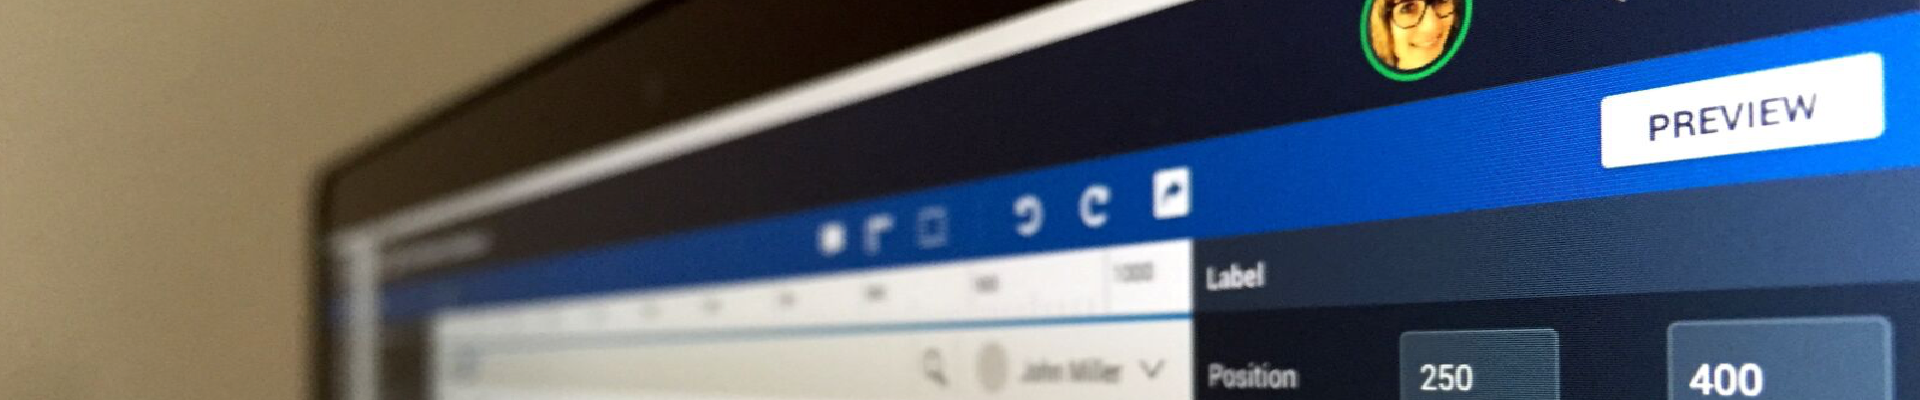
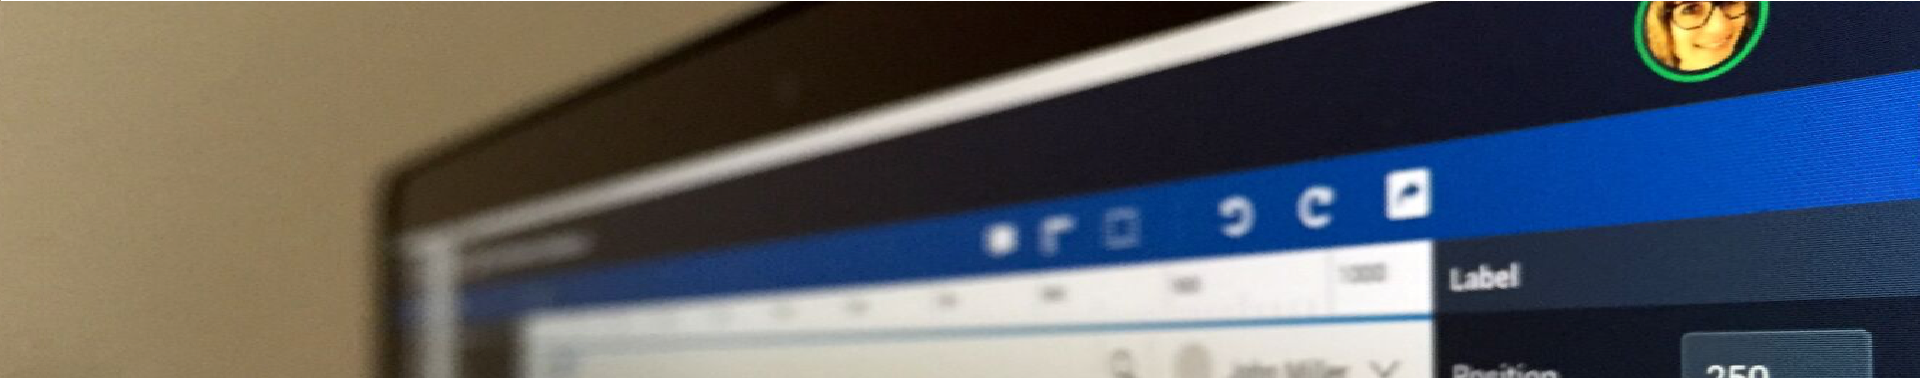
add

diff --git a/index.html b/index.html
@@ -20,7 +20,7 @@
     
   </head>
   <body>
-  <div id="header" src="images/BACKGRD.png">
+  <div id="header" src="images/TinyPNG/BACKGRD_2560.png">
   <img id="headerimg2" src= "images/text_for_banner.png">
   <div class="btn-group open">
   <a class="btn btn-primary" id="showdiv4"><i class="fa fa-search"></i><span style="cursor:pointer">Search</span></a>

diff --git a/stylesheets/ipad-landscape.css b/stylesheets/ipad-landscape.css
@@ -278,8 +278,6 @@ min-width:1600px;
 height:200px; 
 min-height:200px;"
 z-index:7;
-width:50%;
-height:150px;
 }
 #headerimg2{
 position:relative; 

diff --git a/stylesheets/ipad-portrait.css b/stylesheets/ipad-portrait.css
@@ -278,8 +278,6 @@ min-width:1600px;
 height:200px; 
 min-height:200px;"
 z-index:7;
-width:40%;
-height:125px;
 }
 #headerimg2{
 position:relative; 

diff --git a/stylesheets/styles.css b/stylesheets/styles.css
@@ -277,8 +277,6 @@ left: 0;
 min-width:1600px; 
 height:300px; 
 min-height:300px;
-width:100%;
-height:500px;
 }
 #headerimg2{
 position:absolute; 

diff --git a/stylesheets/1600width.css b/stylesheets/1600width.css
@@ -277,8 +277,6 @@ left: 0;
 min-width:1600px; 
 height:300px; 
 min-height:300px;
-width:75%;
-height:400px;
 }
 #headerimg2{
 position:absolute; 
